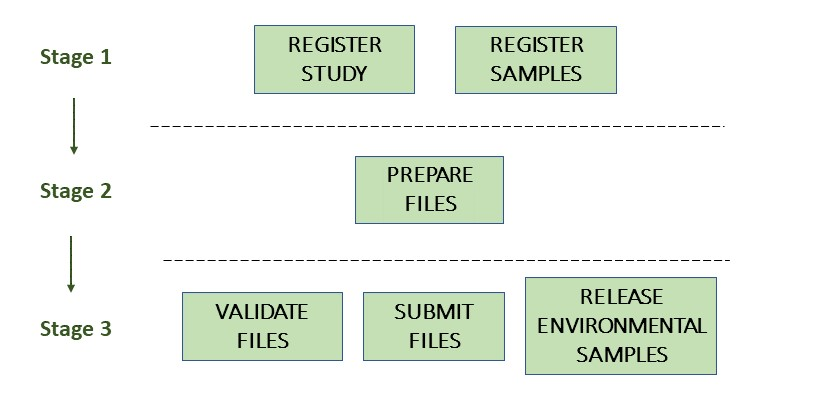
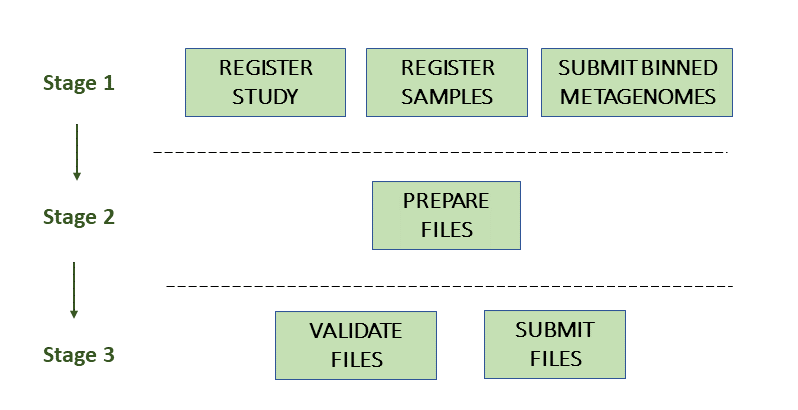
split metagenome assembly documentation

diff --git a/assembly/metagenome.md b/assembly/metagenome.md
@@ -2,263 +2,45 @@
 
 ## Introduction
 
-Metagenome assemblies can be submitted to the European Nucleotide Archive (ENA) using the [Webin command line submission interface](../general-guide/webin-cli.html) with `-context genome`.
+Metagenome assemblies can be submitted to the European Nucleotide Archive (ENA) as one of three options.
 
-Please contact datasubs@ebi.ac.uk if you intend to submit an assembly assembled from third party data.
+1. **Primary metagenome** : a metagenome assembly prior to binning from a sampled biome or collection of sampled biomes without attempt to separate taxa.
 
-Please see [here](../faq/metagenomes.html#how-do-i-submit-uncultured-virus-genomes-uvigs) if you intend to submit uncultured virus genomes derived from a metagenome study.
+2. **binned metagenome** : encompasses anything from a set of contigs to a complete genome assembly from a metagenomic source that has been identified as a single-taxon set.
 
-A metagenome assembly consists of:
-- General assembly information
-   - Study accession or unique name (alias)
-   - **Environmetal** Sample accession or unique name (alias)
-   - **Binned** Sample accession or unique name (alias) *for binned assemblies*
-   - **MAG** Sample accession or unique name (alias) *for MAGs*
-   - Assembly program
-   - Sequencing platform
-   - Minimum gap length
-   - Molecule type (genomic DNA, genomic RNA or viral cRNA)
-   - Coverage
-- Contig sequences (if any)
-- Scaffold sequences (if any and submitting MAGs)
-- Chromosome sequences (if any and submitting MAGs)
+3. **Metagenome-Assembled Genome (MAG)** : a single-taxon assembly based on one or more binned metagenomes that has been asserted to be a close representation to an actual individual genome (that could match an already existing isolate or represent a novel isolate).
 
-The following picture illustrates the stages of the metagenome assembly submission process:
-
-![Submission process](../images/webin-cli_04.png)
-
-## Stage 1: Pre-register study and metagenomic samples
-
-Each submission must be associated with a pre-registered study and one or more pre-registered metagenomic samples.
-
-All metagenomic assemblies should have at least one **environmental** sample registered that represents where the original sequencing data was extracted from.  This sample should be the same sample used to submit your raw reads. Please make sure the appropriate environmental checklist is chosen for this and an environmental taxon is used (e.g. aquatic metagenome (tax id: 1169740)).
-
-For information about biome-level environmental taxonomy please see [here](faq/taxonomy.html#environmental-biome-level-taxonomy).
-
-If you do not intend to submit raw reads or a primary metagenome as part of your metagenome assembly submission, please see [here](../faq/metagenomes.html#how-do-i-submit-metagenome-assemblies-without-raw-data-or-primary-assemblies-to-point-to) for details on how to do this. If no data is associated with the **environmental** sample, it needs to be released manually in order to be available to the public.
-
-Any additional samples required for submission of a metagenome assembly depends on the assembly level:
-
-- primary metagenome
-- binned metagenome
-- Metagenome Assembled Genome (MAG)
-
-The following image illustrates the stages of a metagenome assembly study and what is submittable to each of the assembly levels in ENA:
+This three tiered system was designed to represent the different stages of a metagenome assembly workflow:
 
 ![Metagenome assembly levels](../images/metagenomes.png)
 
-To best represent your data, please submit all levels that are applicable to your study.
+To best represent your data, please submit as many of the levels as you can that are applicable to your study.
 
-MAG submissions should only consist of high quality, unique, single-taxon representative assemblies. For submission of MAGs, only one assembly for each assembled species within a biome (either the best quality or a de-replicated genome) can also be submitted as a MAG to represent that species. This prevents any particular species within an environmental sample/biome from being over-represented and keeps data informative and searchable. 
+Please note: MAG submissions should only consist of high quality, unique, single-taxon representative assemblies.
 
-### Primary metagenome
+For submission of MAGs, only one assembly for each assembled species within a biome (either the best quality or a de-replicated genome) can also be submitted as a MAG to represent that species.
 
-This submission level is for a metagenome assembly prior to binning from a sampled biome or collection of sampled biomes without attempt to separate taxa.
+This prevents any particular species within an environmental sample/biome from being over-represented and keeps data informative and searchable. 
 
-If you are submitting a primary assembly, you only need to reference the **environmental** sample as the taxonomy of the organisms within the assembly are still unknown. This means you are not required to pre-register any further samples.
+You can submit MAGs as stand-alone if you intend to submit only a small representative set within your study but please follow the specific guidance on how to do this.
 
-### Binned metagenome
+## Submitting Derived Assemblies
 
-This submission level is for a set of contigs or a genome assembly grouped into a single-taxon set.
+When it comes to submission of **binned metagenomes** or **Metagenome-Assembled Genomes** you will be asked to register additional 'virtual' samples for each assembly (a **binned** sample or a **MAG** sample).
 
-If you are submitting binned assemblies then you will need to submit an additional **binned** sample for each bin. This should be as specific in taxonomy as it can be and use the specific **ENA binned metagenome** checklist.
+This is because a binned assembly or MAG is not an assembly of the whole set of raw metagenomic data but in fact an assembly derived from a smaller subset of that data. These virtual sample represents the subset of that data and holds all metadata related to the taxonomy of that subset as well as methods used to derive it.
 
-For information about organism-level environmental taxonomy please see [here](../faq/taxonomy.html#environmental-organism-level-taxonomy).
+All derived assemblies from an environmental source require a virtual derived sample so please follow instructions carefully.
 
-Please make sure these **binned** samples correctly reference the **environmental** sample that the bin was derived from. This can be done from within the checklist using the mandatory “sample derived from” attribute. You should also reference the **environmental** sample in the description as one of the following:
+![Metagenome sample relation](../images/metadata_model_derivedanalysis.png)
 
-“This sample represents a metagenomic bin from the metagenomic sample ERSXXXXX”
+## Submission guides
 
-OR
+Please submit all metagenome assembly levels that apply to your study.
 
-“This sample represents a metagenomic bin from the metagenomic run ERRXXXXX”
+.. toctree::
+   :maxdepth: 1
 
-If the assembly was derived from multiple samples or runs you can list these here with a comma separated list or range.
-
-### Metagenome Assembled Genome (MAG)
-
-This submission level is for a single-taxon assembly based on one or more binned metagenomes asserted to be a close representation to an actual individual genome (that could match an already existing isolate or represent a novel isolate).
-
-There should only be one MAG submitted for each species within a biome. This can be determined using a de-replication step or by choosing the highest quality representative genome for each predicted species.
-
-If you are submitting MAGs then you will need to submit an additional **MAG** sample for each assembly. This should be as specific in taxonomy as it can be and use the specific **GSC MIMAGs** checklist.
-
-Please make sure these **MAG** samples correctly reference the **binned** sample that the MAG was derived from. This can be done from within the checklist using the mandatory “sample derived from” attribute. You should also reference the **environmental** sample in the description as one of the following:
-
-“This sample represents a MAG from the metagenomic sample ERSXXXXX”
-
-OR
-
-“This sample represents a MAG from the metagenomic run ERRXXXXX”
-
-If the assembly was derived from multiple samples or runs you can list these here with a comma separated list or range.
-
-More information about how and why we use this additional sample information can be found [here](../faq/metagenomes.html).
-
-The methods for submitting metagenomic studies and samples follow the same process as any other study/sample submission. Follow the links for more information.
-
-- [Register a Study](../study.html)
-- [Register a Sample](../samples.html)
-
-## Stage 2: Prepare the files
-
-The set of files that are part of the submission are specified using a manifest file.
-The manifest file is specified using the `-manifest <filename>` option.
-
-Please review Stage 1 and make sure you are familiar with the metagenome assembly levels before preparing files for submission.
-
-### Primary metagenome
-
-Assemblies in this level should be submitted associated with an **environmental** sample, referenced from within the manifest file.
-
-A primary metagenome assembly submission consists of the following files:
-
-- 1 manifest file
-- 1 fasta file 
-
-This assembly level only requires information on the sequences.
-
-### Binned metagenome
-
-Assemblies in this level should be submitted associated with a **binned** sample, referenced from within the manifest file.
-
-A binned metagenome assembly submission consists of the following files:
-
-- 1 manifest file
-- 1 fasta file
-
-This assembly level only requires information on the sequences.
-
-### Metagenome Assembled Genome (MAG)
-
-Assemblies in this level should be submitted associated with a **MAG** sample, referenced from within the manifest file.
-
-A MAG assembly submission consists of the following files:
-
-- 1 manifest file
-- 1 fasta file OR 1 flat file
-- 0-1 AGP files
-- 0-1 Chromosome list files
-
-This assembly level requires information on the sequences and annotation (if any).
-
-This assembly level allows for the submission of fully assembled genome sequences (including chromosomes, organelles, plasmids, and viral segments) with the use of a 'chromosome list file'. It also allows the submitter to provide an AGP file to give instructions for the assembly of scaffolds or chromosomes if they wish.
-
-If you wish to submit an AGP or chromosome list file, it is important to understand how sequence names are formatted so they can be consistent between files and your assembly can be registered correctly.
-
-### Sequence names
-
-Sequences must each have a unique entry name within the submission that is provided in the fasta, AGP or flat files. It is essential that the sequence names are unique and used consistently between files. 
-
-For example, the chromosome list file must refer to the chromosome sequences using the unique sequence names. Similarly, an AGP file must refer to scaffolds or contigs using the unique sequence names.
-
-### Manifest file
-
-The manifest file has two columns separated by a tab (or any whitespace characters):
-- Field name (first column): case insensitive field name   
-- Field value (second column): field value
-
-The following metadata fields are supported in the manifest file:
-
-- STUDY: Study accession or unique name (alias) 
-- SAMPLE: Sample accession or unique name (alias)
-- ASSEMBLYNAME: Unique assembly name
-- ASSEMBLY_TYPE: 'primary metagenome', 'binned metagenome', 'Metagenome-Assembled Genome (MAG)'
-- COVERAGE: The estimated depth of sequencing coverage
-- PROGRAM: The assembly program
-- PLATFORM: The sequencing platform
-- MINGAPLENGTH: Minimum length of consecutive Ns to be considered a gap (optional)
-- MOLECULETYPE: 'genomic DNA', 'genomic RNA' or 'viral cRNA' (optional)
-- DESCRIPTION: Free text description of the genome assembly (optional)
-
-Please see further below for validation rules affecting some of these fields.
-
-The following file name fields are supported in the manifest file:
-
-- FASTA: sequences in fasta format
-- FLATFILE: sequences in EMBL-Bank flat file format
-- AGP: Sequences in [AGP format](https://www.ncbi.nlm.nih.gov/assembly/agp/AGP_Specification/)
-- CHROMOSOME_LIST: list of chromosomes
-
-For example, the following manifest file represents a metagenome assembly consisting of contigs provided in one fasta file:
-
-```
-STUDY   TODO
-SAMPLE   TODO
-ASSEMBLYNAME   TODO
-ASSEMBLY_TYPE   TODO
-COVERAGE   TODO
-PROGRAM   TODO
-PLATFORM   TODO
-MINGAPLENGTH   TODO
-MOLECULETYPE   genomic DNA
-FASTA   metagenome.fasta.gz
-``` 
-
-## Stage 3: Validate and submit the files
-
-Files are validated, uploaded and submitted using the [Webin command line submission interface](../general-guide/webin-cli.html). 
-
-Please refer to the [Webin command line submission interface](../general-guide/webin-cli.html) documentation for more information about the submission process.
-
-## Assigned accession numbers
-
-Once the genome assembly has been submitted an analysis (ERZ) accession number is immediately assigned and returned to the submitter by the Webin command line submission interface. 
-
-The purpose of the ERZ accession number is for the submitter to be able to refer to their submission within the Webin submission service and, in the case of primary and binned assemblies, access their data in the browser.
-
-For metagenome assemblies, long term stable accession numbers that can be used in publications are:
-
-- Study accession (PRJ) assigned at time of study registration.
-- Sample accession (SAM) assigned at time of sample registration.
-- Sequence accession(s) assigned once the assembly has been fully processed by ENA (**for MAGS**).
-- Genome assembly accession (GCA) assigned once the assembly has been fully processed by ENA (**for MAGS**).
-
-Submitters can retrieve the genome and sequence accession numbers from the [Webin submissions portal](../general-guide/submissions-portal.html) or from the [Webin reports service](../general-guide/reports-service.html). These accession numbers are also sent to the submitters by e-mail.
-
-## Validation rules
-
-### Assembly name validation
-
-Assembly names must:
-- match the pattern: ^\[A-Za-z0-9\]\[A-Za-z0-9 _#\-\.]*$
-- be shorter than 100 characters
-- not include the name of the organism assembled
-           
-### Chromosome name validation
-    
-Chromosome names must:
-- match the pattern: ^\[A-Za-z0-9\]\[A-Za-z0-9_#\-\.]*$
-- be shorter than 33 characters
-- not contain any of the following as part of their name (case insensitive): 
-    - 'chr'
-    - 'chrm'
-    - 'chrom'
-    - 'chromosome'
-    - 'linkage group'
-    - 'linkage-group'
-    - 'linkage_group'
-    - 'plasmid'
-- be unique within an assembly
-
-### Sequence validation
-
-Sequences must:
-- have unique names within an assembly
-- be at least 20bp long
-- not have terminal Ns
-- consist of bases: 'a','c','g','t','u','b','d','h','k','m','n','r','s','v','w','y'
-
-### Sequence count validation
-
-Typically, assembly submissions consisting of sequences that exceed the standard minimum or maximum number are not permitted. However, in specific cases, ENA may allow the submission of genome assemblies that are giving the following errors:
-
-Since Webin 1.7.0:
-- Invalid number of sequences : XXX, Minimum number of sequences for CONTIG is: YYY
-- Invalid number of sequences : XXX, Minimum number of sequences for SCAFFOLD is: YYY
-- Invalid number of sequences : XXX, Minimum number of sequences for CHROMOSOME is: YYY
-- Invalid number of sequences : XXX, Maximum number of sequences for CONTIG is: YYY
-- Invalid number of sequences : XXX, Maximum number of sequences for SCAFFOLD is: YYY
-- Invalid number of sequences : XXX, Maximum number of sequences for CHROMOSOME is: YYY
-
-This will be done at the discretion of the curation team when provided with valid reasoning, and can be requested with an email to datasubs@ebi.ac.uk . 
+    metagenome/primary
+    metagenome/binned
+    metagenome/mag

diff --git a/assembly.rst b/assembly.rst
@@ -55,6 +55,9 @@ see the documentation on `Webin-CLI Submission <general-guide/webin-cli.html>`_.
 
    assembly/genome
    assembly/metagenome
+       assembly/metagenome/primary
+       assembly/metagenome/binned
+       assembly/metagenome/mag
    assembly/environmental-sag
    assembly/transcriptome
    assembly/metatranscriptome
